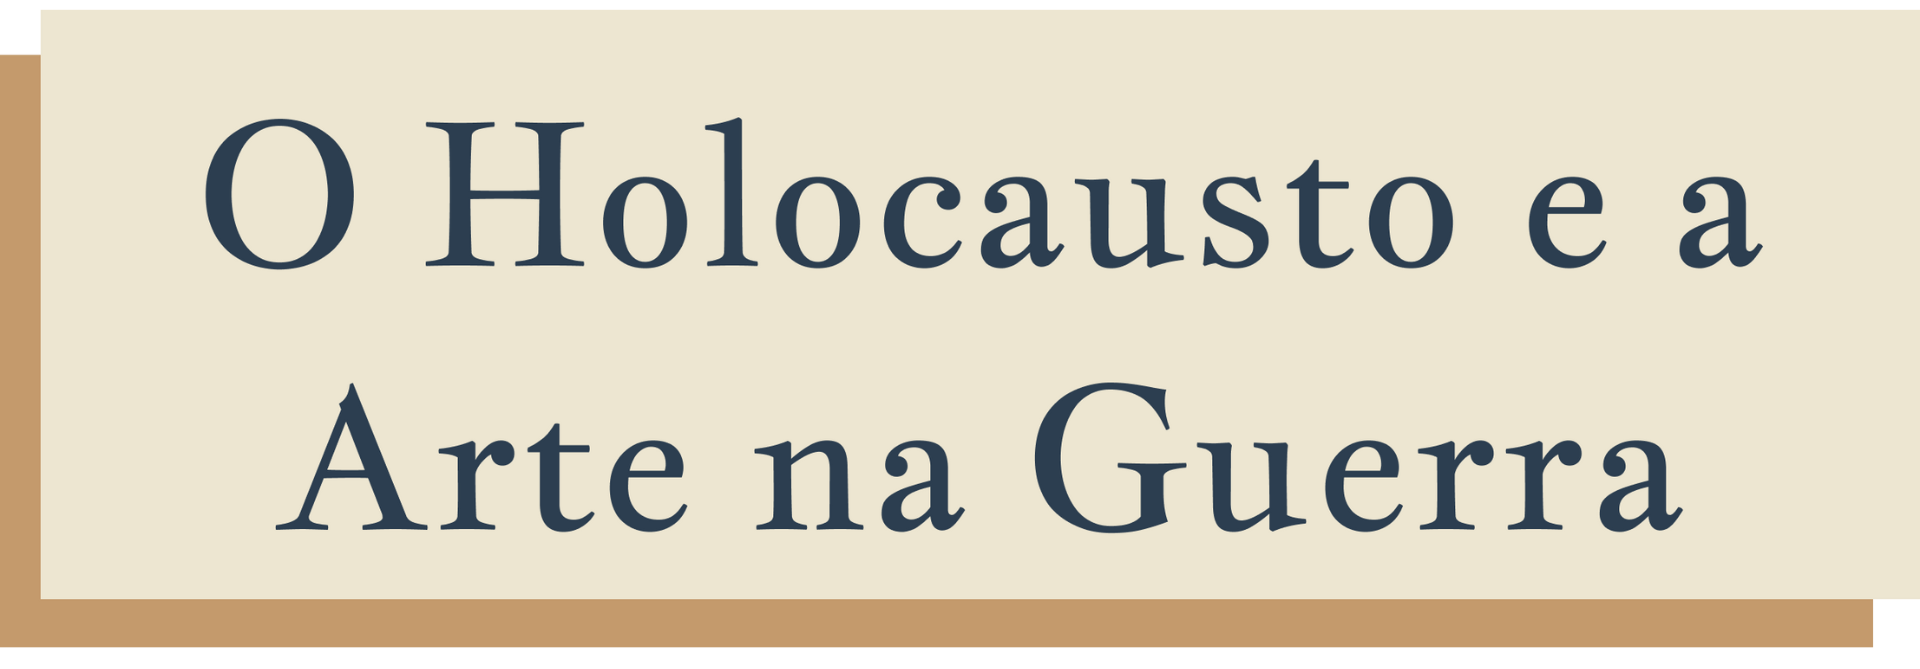
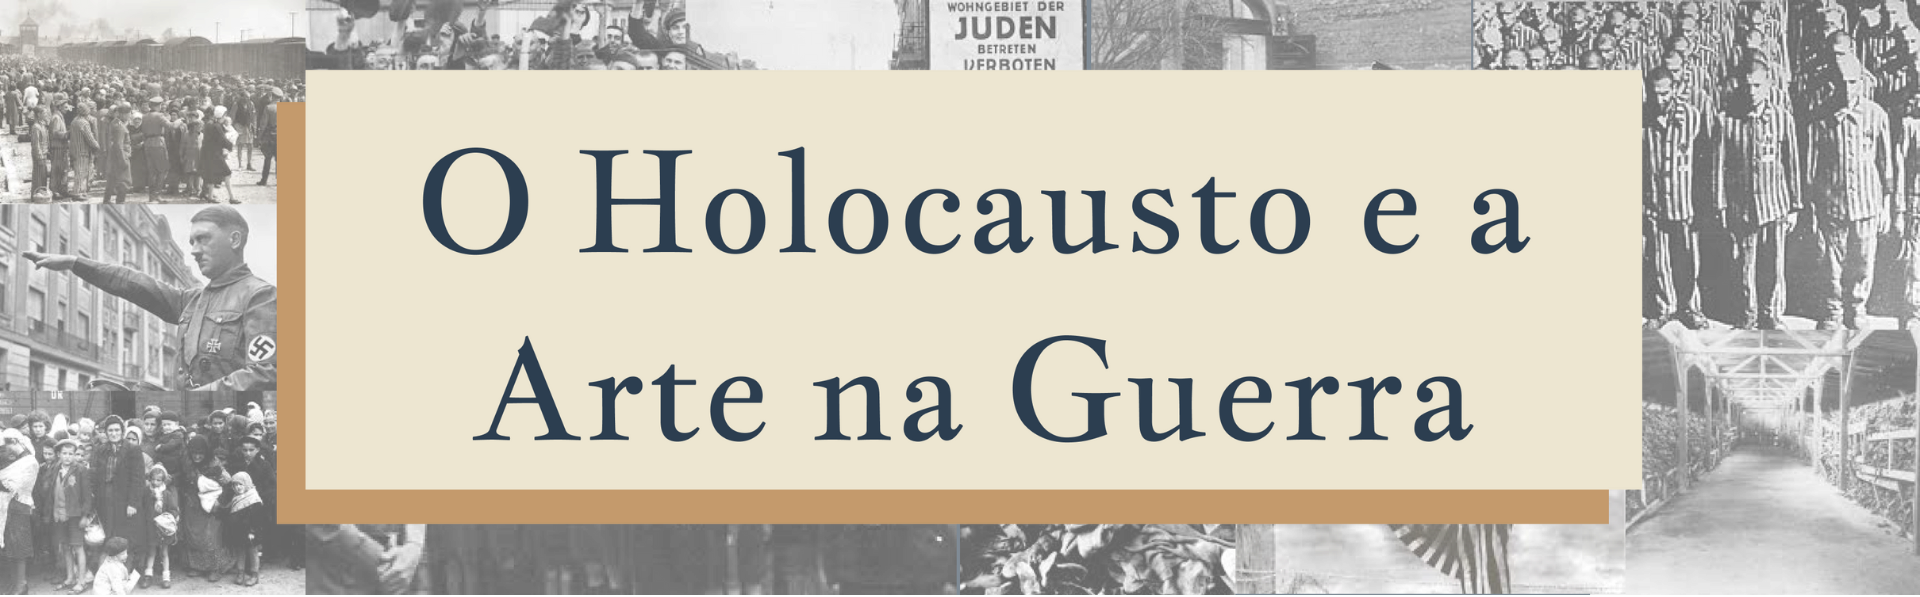
a

diff --git a/index.css b/index.css
@@ -34,15 +34,22 @@ img{
 }
 #index{
     background-color: rgba(44, 62, 80, 1) ;
+    margin:0%;
 }
 .conteudo{
     display: flex;
     flex-direction: column;
     justify-content: center;
     align-items: center;
+    margin-top: 5%;
+    padding-bottom: 5%;
+    padding-top: 5%;
+    background-image: url(imgs/background_img.png);
+    background-size: 50% auto;   /* 2 imagens no eixo X = cada uma ocupa 50% */
+    background-position: top left; /* começa no topo/esquerda */
 }
 .img_banner{
-    width: 70%;
+    width: 100%;
     height: auto;
 }
 .banner{
@@ -51,7 +58,6 @@ img{
     align-items: center;
     align-items: center;
     margin-top: 2%;
-    margin-bottom: 2%;
 }
 .conteudo button{
     background-color: rgba(196, 154, 108, 1);
